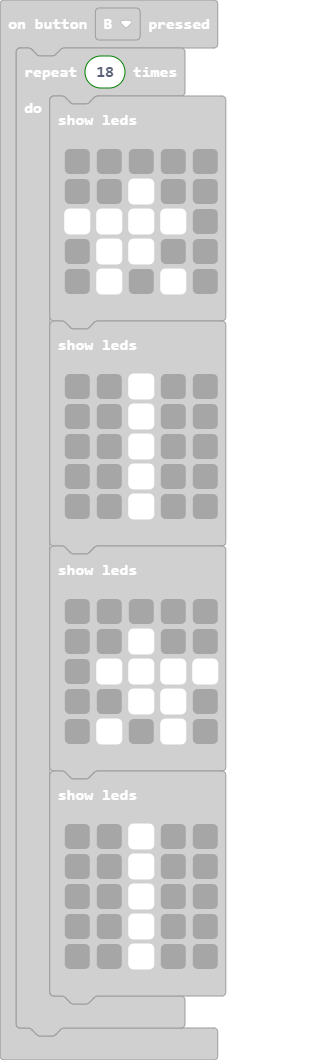
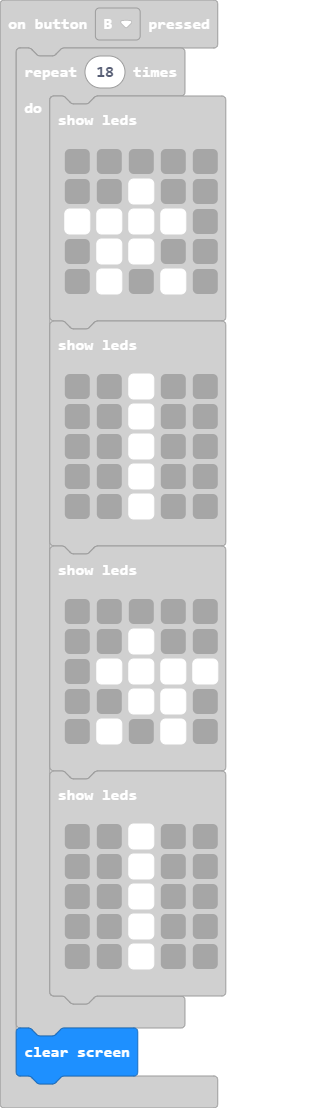
Update main.blocks, main.ts

Changed region(s): [[0.0303, 0.0311, 0.697, 0.9962], [0.5152, 0.0, 0.5455, 0.0311]]

diff --git a/main.ts b/main.ts
@@ -101,6 +101,7 @@ input.onButtonPressed(Button.B, function () {
             . . # . .
             `)
     }
+    basic.clearScreen()
 })
 input.onGesture(Gesture.Shake, function () {
     basic.showLeds(`
